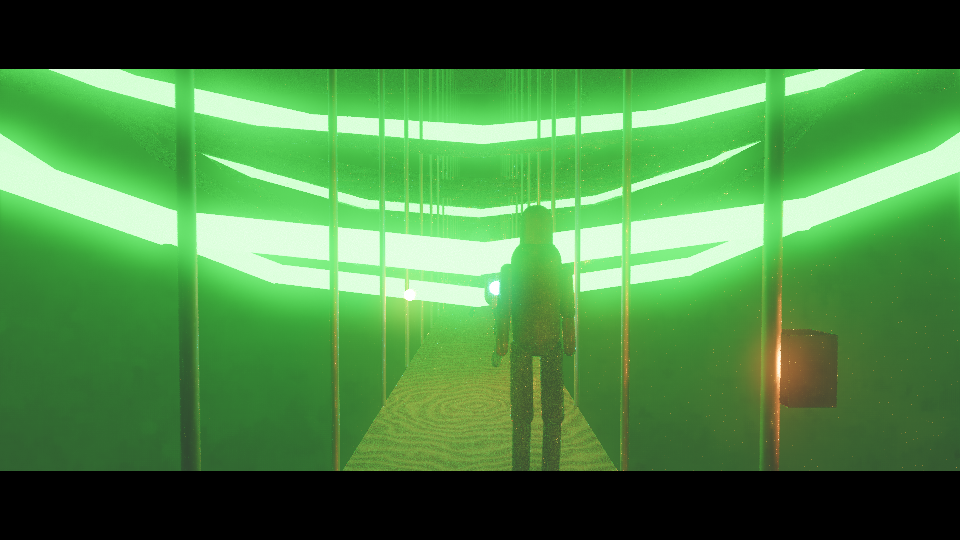
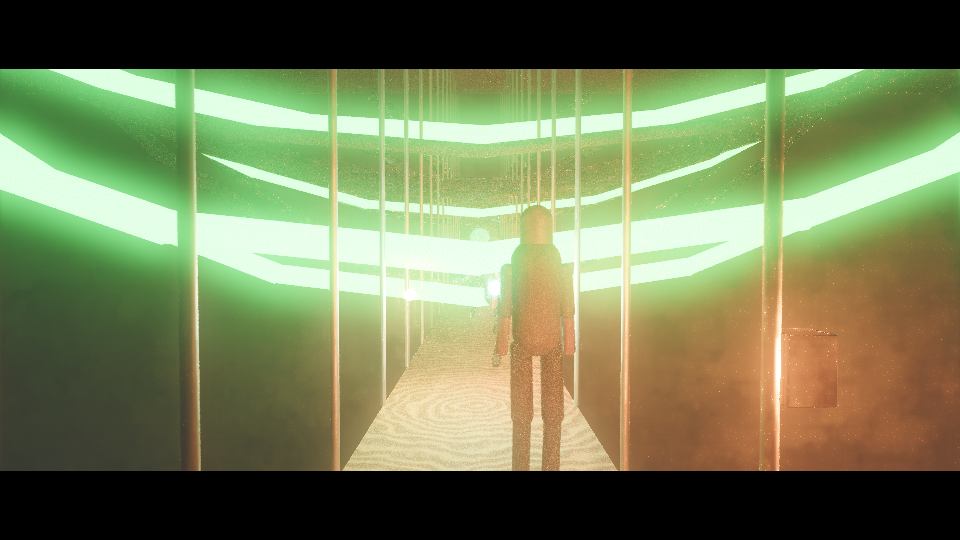
Site: Echoes of Ardane with all 24 trailer stills
Claude-Session: https://claude.ai/code/session_01Nz16Pz7LWLUtpfTJiqQb1z

diff --git a/index.html b/index.html
@@ -4,7 +4,7 @@
 <meta charset="utf-8">
 <meta name="viewport" content="width=device-width, initial-scale=1, viewport-fit=cover, user-scalable=no">
 <title>Loop3D Player</title>
-<meta name="loop-build" content="2bf1654 2026-11-04">
+<meta name="loop-build" content="f236bb4 2026-11-04">
 <style>
   :root { --ink: #f4efe6; --dim: #b9ae9c; --glass: rgba(18, 14, 10, 0.55); --line: rgba(255, 220, 170, 0.18); --amber: #ffb35c; }
   html, body { margin: 0; height: 100%; background: #000; color: var(--ink); font: 15px/1.35 -apple-system, system-ui, sans-serif; overflow: hidden; touch-action: none; -webkit-user-select: none; user-select: none; }
